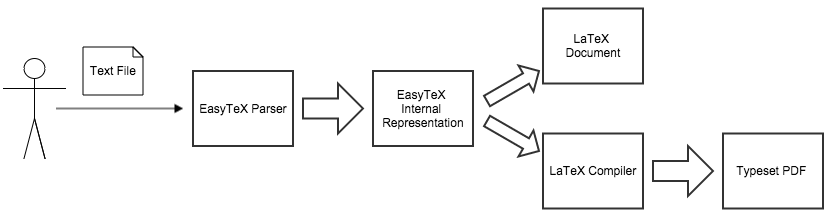
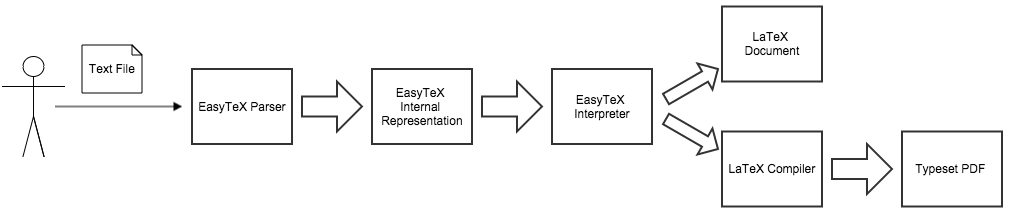
Completed through language design section

Changed region(s): [[0.0, 0.0, 0.9988, 0.9906], [0.6242, 0.934, 0.8115, 0.9906], [0.6867, 0.1415, 0.7803, 0.1981]]

diff --git a/documents/final.md b/documents/final.md
@@ -1,0 +1,102 @@
+# EasyTeX Final Write-up - Paul Dapolito
+
+## Introduction
+EasyTeX is a domain-specific language for creating clean, shareable, and nicely-formatted technical documents using the popular typesetting language, LaTeX. Students, professors, scientists, and other members of the technical world often wish to typeset their documents in the interest of creating beautiful and readable products unbounded by the difficulties of handwriting. The language of choice for domain task is LaTeX, a general-purpose typesetting language used to create beautiful PDF documents. While LaTeX is quite useful for expressing technical work in a stunning medium, the language requires an excess of boilerplate markup to create a document, and maintaining LaTeX documents can be quite difficult due to the non-enforcement of styling guidelines in the language. This, combined with LaTeX's rather verbose syntax, make maintaining and collaborating on technical documents particularly difficult.
+
+EasyTeX serves as a domain-specific language to allow for the creation of technical documents, like memorandums and problem sets, more easily and more quickly with a focus on readability. Collaboration is an important aspect of progress in the technical world, and to complement this paradigm, EasyTeX adheres to strict styling guidelines and formatting specifications to ensure that documents written in the language are shareable. Further than this, EasyTeX encapsulates boilerplate markup and "starter code" to enable users to produce beautiful documents in an efficient manner while still maintaining readability. In the domain of technical typesetting, there is a need for standardization and optimization in the best interests of collaboration and progress, and EasyTeX strives to deliver this typesetting experience in a way that is fast, easy-to-use, and shareable. 
+
+## Language Design
+
+EasyTeX is designed to allow users to express their technical work using their favorite text editor. In developing EasyTeX, I have created sample programs in my favorite text editor, [Sublime Text 2](http://www.sublimetext.com/2). This is simply my own preferred environment for typesetting documents, and EasyTeX users are not restricted to any one editor or environment, as the language's transcompiler will handle any file from any editor, so long as the file consists of text content which matches EasyTeX's [grammar](https://github.com/PaulDapolito/EasyTeX/blob/master/documents/grammar.md) and specifications. If a user creates an EasyTeX document and saves it with a `.txt` extension (although no particular file extension is required to use EasyTeX), they can invoke the EasyTeX build process by passing their file to EasyTeX's command-line interface. 
+
+EasyTeX's syntax is designed to be concise and intuitive. The language does not incorporate the notion of opening and closing tags, and instead relies on tabbed-delineation to differentiate between different components of EasyTeX documents. This feature grants EasyTeX users a less verbose syntax than a more general purpose typesetting language, like LaTeX, and encourages readability in users' documents by way of requiring whitespace separation between components. The language's syntax is also meant align closely with a user's expectation as to what should be written. For example, if a user wishes to add certain LaTeX packages to their EasyTeX document in the interest of incorporating more advanced formatting or styling, they can do so by adding some number of comma-separated package names after a `packages:` specifier. This syntax design adheres closely to the English language and will allow users to add and modify components of their documents without having to repeatedly refer to the language's documentation.
+
+When a user creates a text document that meets EasyTeX's specification, they can invoke EasyTeX's build process on the document by passing it to the language's command-line tool. When the EasyTeX tool executes, it takes an input file and attempts to parse it using EasyTeX's [parser](https://github.com/PaulDapolito/EasyTeX/blob/master/source/parser/parser.py). This parser scans the text file for various EasyTeX components (like problems, collaborators, sections, and others) and creates an internal representation of Python objects that holds the inputted text corresponding to reach EasyTeX component. Each object is treated differently by EasyTeX's [interpreter](https://github.com/PaulDapolito/EasyTeX/blob/master/source/interpreters/interpreter.py), and EasyTeX follows an iterative approach to output syntactically correct LaTeX code for each internally represented component of a user's document.
+
+<div style="width: 700px" align="center">
+    <img src="./images/computational_model.png"/> <br />
+    EasyTeX Computational Model
+</div>
+
+From EasyTeX's computational model above, we can see that EasyTeX's parser takes a user's input file and creates and internal representation of Python objects. This internal representation takes the form of a hierarchy of objects. At the highest level is an EasyTeX [Document](https://github.com/PaulDapolito/EasyTeX/blob/master/source/ir/document.py), which has data fields `problem_set` and `memorandum`. These data members are meant to be populated with objects from EasyTeX's [ProblemSet](https://github.com/PaulDapolito/EasyTeX/blob/master/source/ir/problem_sets/problem_set.py) and [Memorandum](https://github.com/PaulDapolito/EasyTeX/blob/master/source/ir/memorandums/memorandum.py) classes, respectively. As one can see in the source code for an EasyTeX Document, a user may specify a document that is either a problem set or a memorandum, but not both. 
+
+An EasyTeX ProblemSet consists of an [Author](https://github.com/PaulDapolito/EasyTeX/blob/master/source/ir/shared/author.py), any number of [Collaborators](https://github.com/PaulDapolito/EasyTeX/blob/master/source/ir/shared/collaborator.py), an optional [DueDate](https://github.com/PaulDapolito/EasyTeX/blob/master/source/ir/problem_sets/due_date.py), an optional [Title](https://github.com/PaulDapolito/EasyTeX/blob/master/source/ir/shared/title.py), an optional [Course](https://github.com/PaulDapolito/EasyTeX/blob/master/source/ir/problem_sets/course.py), an optional [School](https://github.com/PaulDapolito/EasyTeX/blob/master/source/ir/problem_sets/school.py), any number of [Packages](https://github.com/PaulDapolito/EasyTeX/blob/master/source/ir/shared/package.py), and one or more [Problems](https://github.com/PaulDapolito/EasyTeX/blob/master/source/ir/problem_sets/problem.py). EasyTeX Problems consist of an optional [Label](https://github.com/PaulDapolito/EasyTeX/blob/master/source/ir/problem_sets/label.py), a [Statement](https://github.com/PaulDapolito/EasyTeX/blob/master/source/ir/problem_sets/statement.py), and a [Solution](https://github.com/PaulDapolito/EasyTeX/blob/master/source/ir/problem_sets/solution.py).
+
+<div style="width: 700px" align="center">
+    <img src="./images/problem_set.png"/> <br />
+    EasyTeX ProblemSet (* denotes optional field)
+</div>
+
+From this schema, an EasyTeX ProblemSet takes on the following textual form (with all fields left empty and all optional fields included):
+
+	problem_set:
+		author:
+		collaborators:
+		due_date:
+		title:
+		course:
+		school:
+		packages:
+		
+		problem:
+			label:
+			statement:
+			
+			solution:
+			
+		problem:
+			label:
+			statement:
+				
+			solution:
+
+An EasyTeX [Memorandum](https://github.com/PaulDapolito/EasyTeX/blob/master/source/ir/memorandums/memorandum.py) consists of an [Author](https://github.com/PaulDapolito/EasyTeX/blob/master/source/ir/shared/author.py), any number of [Collaborators](https://github.com/PaulDapolito/EasyTeX/blob/master/source/ir/shared/collaborator.py), an optional [Date](https://github.com/PaulDapolito/EasyTeX/blob/master/source/ir/memorandums/date.py), a [Title](https://github.com/PaulDapolito/EasyTeX/blob/master/source/ir/shared/title.py), an optional [Subtitle](https://github.com/PaulDapolito/EasyTeX/blob/master/source/ir/memorandums/subtitle.py), any number of [Packages](https://github.com/PaulDapolito/EasyTeX/blob/master/source/ir/shared/package.py), and and one or more [Sections](https://github.com/PaulDapolito/EasyTeX/blob/master/source/ir/memorandums/section.py). EasyTeX sections consist of a [Title](https://github.com/PaulDapolito/EasyTeX/blob/master/source/ir/shared/title.py) and [Content](https://github.com/PaulDapolito/EasyTeX/blob/master/source/ir/memorandums/content.py).
+
+<div style="width: 700px" align="center">
+    <img src="./images/memorandum.png"/> <br />
+    EasyTeX Memorandum (* denotes optional field)
+</div>
+
+From this schema, an EasyTeX Memorandum takes on the following textual form (with all fields left empty and all optional fields included):
+
+	memorandum:
+		author:
+		collaborators:
+		date:
+		title:
+		subtitle:
+		packages: 
+		
+		section:
+			title:
+			content:
+				
+		section:
+			title:
+			content: 
+
+EasyTeX users can create a `ProblemSet` or `Memorandum` by creating a text file that matches the EasyTeX specification. When the EasyTeX tool executes, their inputted text is parsed into a corresponding internal representation using the hierarchy of objects described above, which is then passed to EasyTeX's interpreter for evaluation. The user can manipulate and re-configure these data by repeatedly invoking EasyTeX's command-line tool on their input file. The control flow of this process is controlled by EasyTeX's parser, internal representation, and interpreter. EasyTeX's parser traverses through each line of the user's text file and attempts to create an internal representation using the aforementioned Python classes. If the user's text file is syntactically valid and can be parsed, then the EasyTeX parser yields an internally represented EasyTeX document which is either a `ProblemSet` or a `Memorandum`. This document is then handed to EasyTeX's interpreter, which produces properly formatted LaTeX code for each component of the internal representation corresponding to a user's EasyTeX document. EasyTeX's interpreter saves this LaTeX code on the user's file system in a `.tex` file, which is outputted in a readable manner to allow the user to refer to the underlying LaTeX of their typeset document. EasyTeX's command-line tool invokes a LaTeX compiler on the `.tex` file to produce `.pdf` file for the user.
+
+<div style="width: 700px" align="center">
+	<img src="./images/control_flow.png"/> <br />
+    EasyTeX Control Flow
+</div>
+
+This control flow, from start to finish, is invoked by the user on the command line with an input file:
+	
+	./easytex.sh input_file_name.txt
+	
+In order to use EasyTeX, a user must provide an input text file. This file does not need to have a `.txt` extension, but its contents must consist of text that matches the EasyTeX specification. If this inputted text file can be parsed into a valid internal representation, the EasyTeX tool yields a `.tex` file consisting of syntactically correct LaTeX code that corresponds to the user's EasyTeX document. Furthermore, the EasyTeX tool creates a `.pdf` output consisting of the user's typeset  work.
+
+<div style="width: 700px" align="center">
+    <img src="./images/input_and_output.png"/> <br />
+    EasyTeX Input and Output
+</div>
+
+There are several cases in which an EasyTeX program could go wrong. Problems with the EasyTeX tool would be encountered when a user inputs a text file that does not meet EasyTeX's specification for valid documents. This might mean that the user omitted a required field or left a field blank, or that the user did not incorporate proper tabbed-delineation as specified by EasyTeX's grammar. Fortunately for the user, however, is that EasyTeX has robust error-checking and outputting functionality. Each class of EasyTeX's internal representation has its own associated error class, meaning that invalid input which is parsed and represented internally produces an error message that tells the user what part of their input was invalid and why it brought about the failure to instantiate EasyTeX's internal representation. EasyTeX's parser also helps users identify and rectify errors in an efficient manner. If, at any point, the EasyTeX parser encounters text that it does not expect and cannot parse, the parser outputs the exact line and column number of the invalid input and what it expected to encounter at that position in the user's document. These error-checking methods provide a standard of exactness when users provide invalid input to EasyTeX. 
+
+While there are not many domain-specific languages on the Internet that target LaTeX directly, LaTeX itself is a domain-specific language for typesetting documents. LaTeX is compiled by a variety of tools, such as `pdflatex`, to create PDF documents. LaTeX can also be compiled to create PostScript documents or DVI documents. There are many such compilers, environments, and tools available for creating LaTeX documents. Many of these tools, such as [TeXworks](http://tug.org/texworks/) and [TeXShop](http://pages.uoregon.edu/koch/texshop/), provide a text-editor (complete with syntax highlighting) environment and allow users to apply a LaTeX compiler to their input. Many LaTeX environments, with a wide array of features, are hosted on the web, such as [writeLaTeX](https://www.writelatex.com/) and [ShareLaTeX](https://www.sharelatex.com/). These environments, upon compilation, produce helpful error messages and highlight lines of input which are invalid in real-time, allowing users to quickly fix their input and reapply the build process for creating typeset documents. While I do strive to create an environment for EasyTeX similar to these interfaces built on web technologies, I have thus far only implemented [syntax highlighting](https://github.com/PaulDapolito/EasyTeX/blob/master/source/EasyTeX%20Grammar.tmLanguage) for the language.
+
+Eventually, I would like to emulate the environment support that surrounds LaTeX. EasyTeX, however, will differ from LaTeX in its formatting standards of cleanliness and simplicity. LaTeX documents often contain a plethora of boilerplate code to specify different facets of a document's format and spacing. I would like to eventually expand EasyTeX to allow users to choose the specific font, margin size, line spacing, and other associated formatting specifications for the documents in a syntactically charming way. However, in the interest of reducing EasyTeX's clunkiness and allowing users, like students at Harvey Mudd, to typeset their work without paying much attention to the tedious setup needed to typeset with LaTeX, EasyTeX currently supports only the explicit specification of LaTeX packages to be included in a user's document with other formatting options, like font style and margin spacing, built-in to the language. 
+
+As was previously mentioned, EasyTeX enforces a whitespace standard of tabbed-delineation to specify the start and end of various components of a user's document. Because LaTeX does not enforce any whitespace standards, the language requires the use of verbose opening and closing tags for all elements of a document. I feel that EasyTeX's enforcement of tabbed-delineation makes EasyTeX documents both more readable and more shareable than LaTeX documents, as EasyTEX users can traverse and identify components of EasyTeX documents more efficiently than they could do so with LaTeX documents. EasyTeX is also very different from LaTeX in terms of the DSL's range of expression. A user can typeset almost any type of document using LaTeX, whether it be a problem set, memorandum, novel, essay, textbook, newspaper, or journal entry. EasyTeX, however, is specific to the domain of typesetting technical problem sets and memorandums. I would certainly like to expand EasyTeX later-on to encompass a wider range of expression, but I feel that focusing on problem sets and memorandums at first has allowed me to produce a high-quality product that is very useful for typesetting these two types of documents. 
